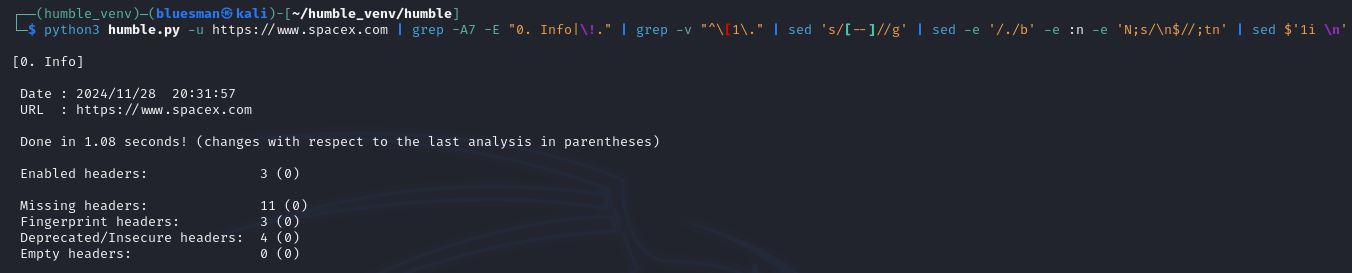
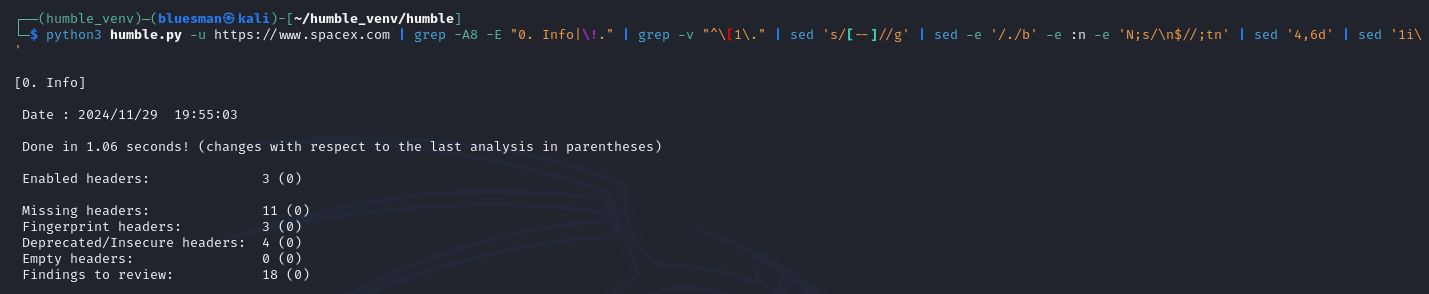
Minor: Screenshots updated

diff --git a/README.md b/README.md
@@ -308,7 +308,7 @@ $ py humble.py -u https://www.spacex.com -l es | Select-String -Pattern '!.' -Co
 .: (Linux) - Show only the URL, date and analysis summary.<br />
 
 ```
-$ python3 humble.py -u https://www.spacex.com | grep -A7 -E "0. Info|\!." | grep -v "^\[1\." | sed 's/[--]//g' | sed -e '/./b' -e :n -e 'N;s/\n$//;tn' | sed $'1i \n'
+$ python3 humble.py -u https://www.spacex.com | grep -A8 -E "0. Info|\!." | grep -v "^\[1\." | sed 's/[--]//g' | sed -e '/./b' -e :n -e 'N;s/\n$//;tn' | sed '4,6d' | sed '1i\'
 ```
 <img src="https://github.com/rfc-st/humble/blob/master/screenshots/humble_adv_linux_2.jpg" alt="Show URL, date and the analysis summary (Linux)">
 
